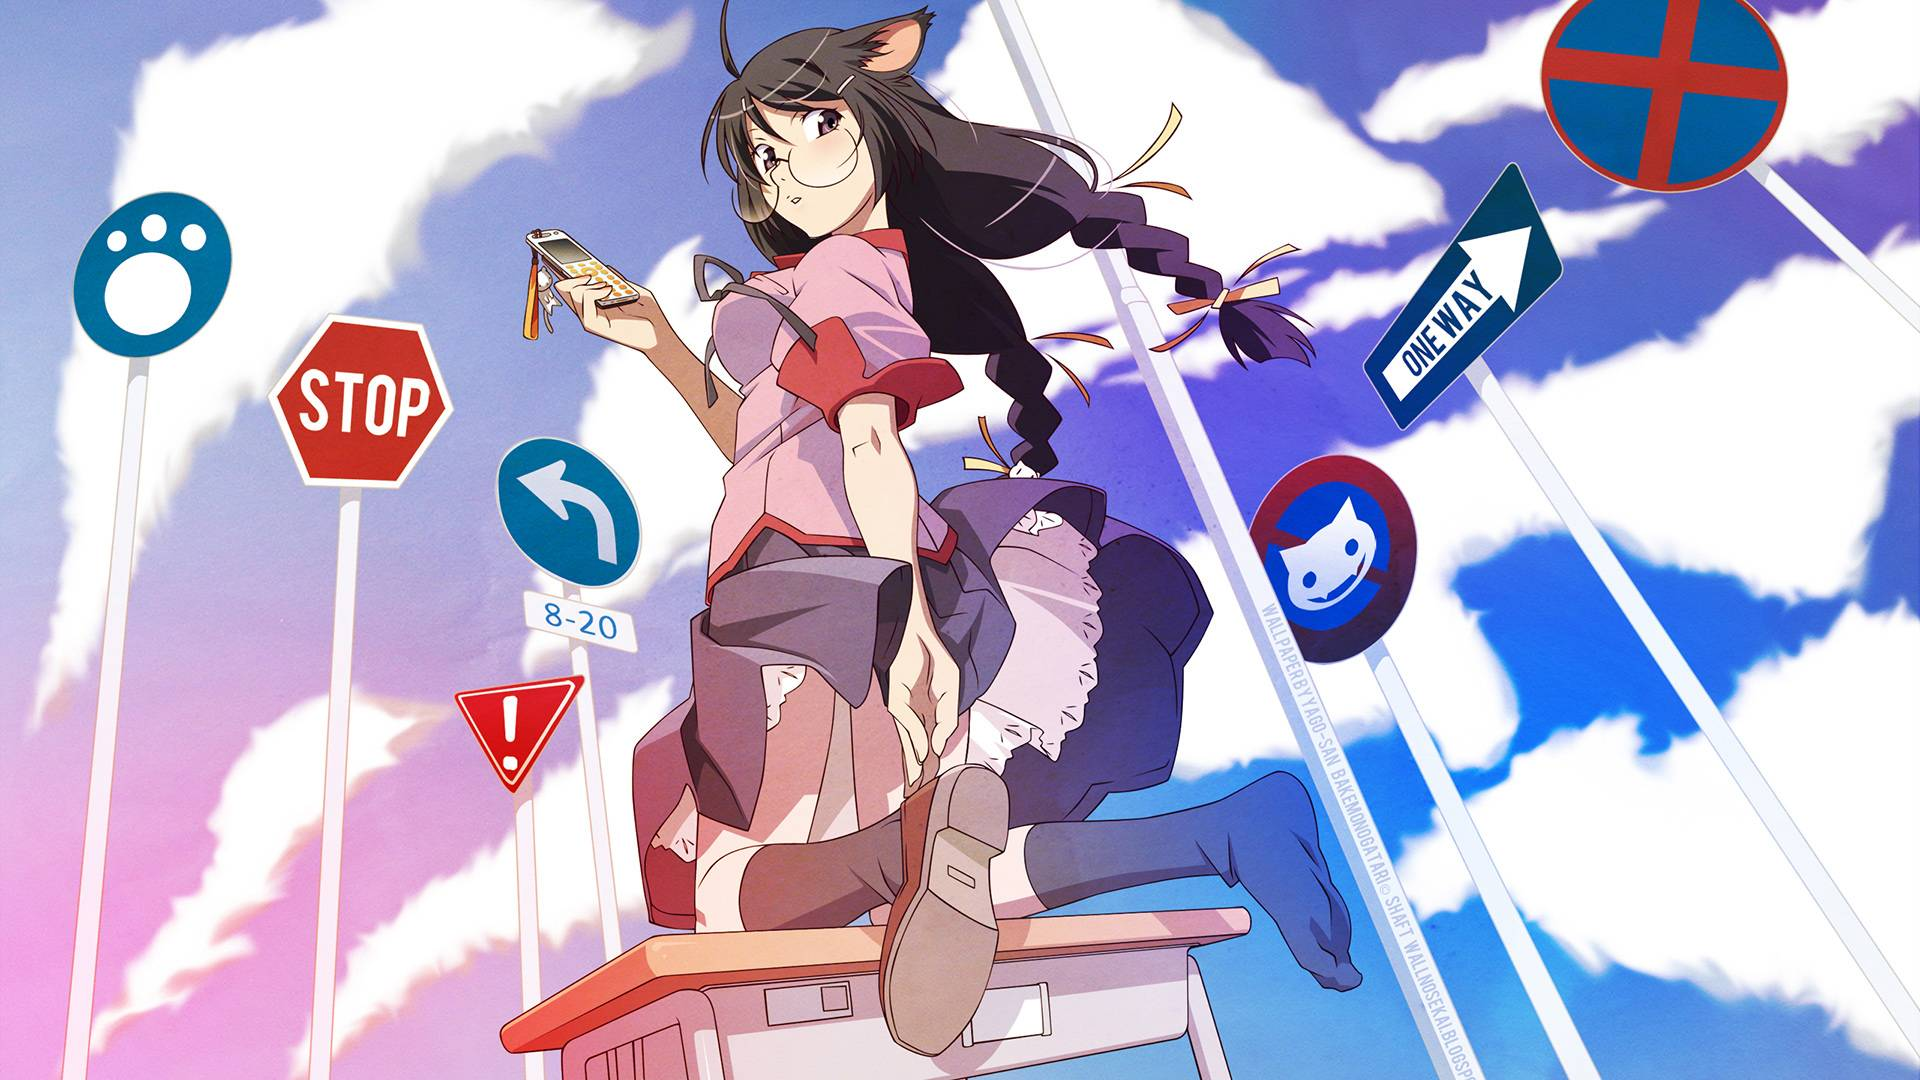
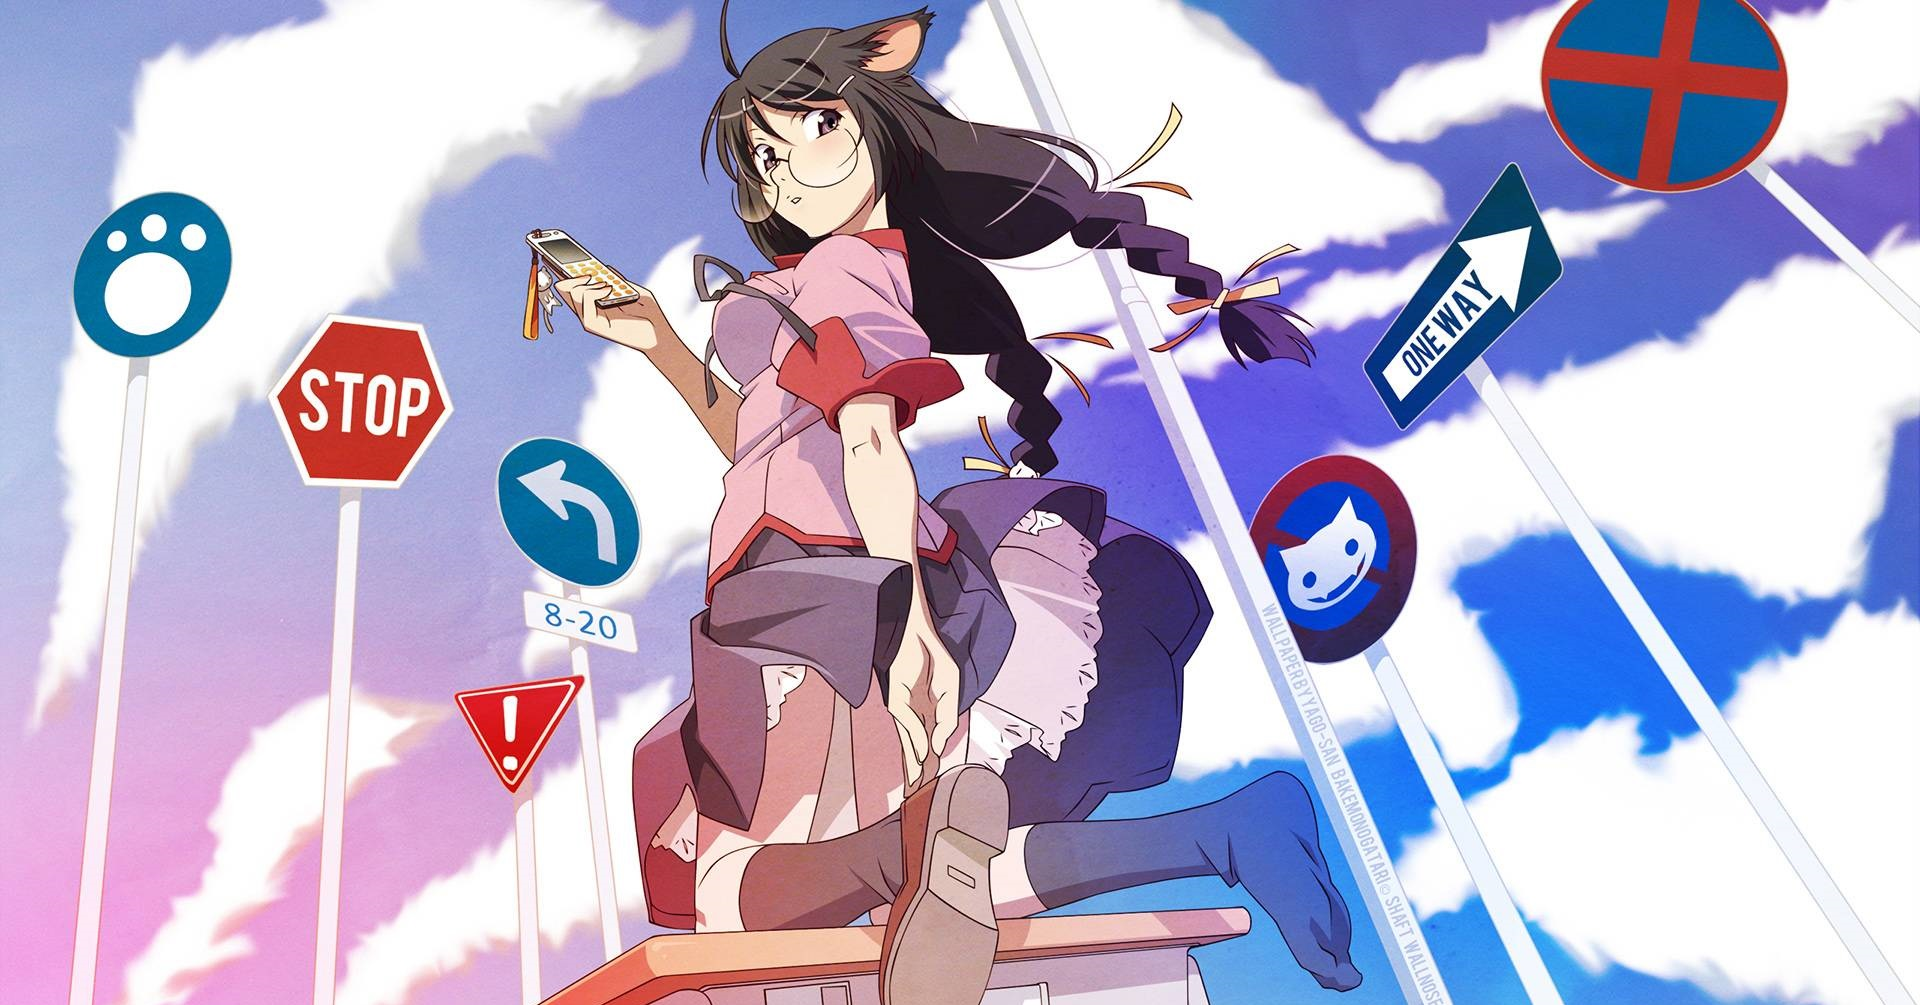
media query for carousel

diff --git a/index.html b/index.html
@@ -19,12 +19,12 @@
     <button class="navbar-toggler navbar-toggler-right" type="button" data-toggle="collapse" data-target="#navbarSupportedContent" aria-controls="navbarSupportedContent" aria-expanded="false" aria-label="Toggle navigation">
        <span class="navbar-toggler-icon"></span>
      </button>
-    <a class="navbar-brand" href="#"><img src="images/nekotaku-logo2.png" width="75"></a>
+    <a class="navbar-brand" href="index.html"><img src="images/nekotaku-logo2.png" width="75"></a>
 
     <div class="collapse navbar-collapse" id="navbarSupportedContent">
       <ul class="navbar-nav mr-auto">
         <li class="nav-item active">
-          <a class="nav-link" href="#">Home <span class="sr-only">(current)</span></a>
+          <a class="nav-link" href="index.html">Home <span class="sr-only">(current)</span></a>
         </li>
         <li class="nav-item">
           <a class="nav-link" href="#">Reviews</a>
@@ -37,45 +37,52 @@
   </nav>
 
   <!--- Beginning of Slider --->
-  <div id="myCarousel" class="carousel slide" data-ride="carousel">
-    <ol class="carousel-indicators">
-      <li data-target="#myCarousel" data-slide-to="0" class="active"></li>
-      <li data-target="#myCarousel" data-slide-to="1"></li>
-      <li data-target="#myCarousel" data-slide-to="2"></li>
-    </ol>
-    <div class="carousel-inner">
-      <div class="carousel-item active">
-        <img class="d-block w-100" src="images/bakemonotegari2.jpg" alt="First slide">
-        <div class="carousel-caption d-none d-md-block">
-        <h3>Bakemonotegari</h3>
-        <p>...</p>
-      </div>
-      </div>
-      <div class="carousel-item">
-        <img class="d-block w-100" src="images/asilentvoice.png" alt="Second slide">
-        <div class="carousel-caption d-none d-md-block">
-        <h3>A Silent Voice</h3>
-        <p>...</p>
-      </div>
-      </div>
-      <div class="carousel-item">
-        <img class="d-block w-100" src="images/kakeguirui.png" alt="Third slide">
-          <div class="carousel-caption d-none d-md-block">
-          <h3>Kakeguirui</h3>
-          <p>...</p>
-        </div>
-      </div>
-    </div>
-    <a class="carousel-control-prev" href="#carouselExampleIndicators" role="button" data-slide="prev">
- <span class="carousel-control-prev-icon" aria-hidden="true"></span>
- <span class="sr-only">Previous</span>
-</a>
-    <a class="carousel-control-next" href="#carouselExampleIndicators" role="button" data-slide="next">
- <span class="carousel-control-next-icon" aria-hidden="true"></span>
- <span class="sr-only">Next</span>
-</a>
+  <div class="container">
+        <div id="myCarousel" class="carousel slide" data-ride="carousel">
+          <ol class="carousel-indicators">
+            <li data-target="#myCarousel" data-slide-to="0" class="active"></li>
+            <li data-target="#myCarousel" data-slide-to="1"></li>
+            <li data-target="#myCarousel" data-slide-to="2"></li>
+          </ol>
+
+          <div class="carousel-inner" role="listbox">
+            <div class="carousel-item active">
+              <img src="images/bakemonotegari2.jpg" class="d-block img-fluid" alt="First Slide" />
+              <div class="carousel-caption">
+                <h1>Bakemonotegari</h1>
+                <p>Oh yh it is indeed!!!!!! :D</p>
+              </div>
+            </div>
+
+            <div class="carousel-item">
+              <img src="images/asilentvoice.png" class="d-block w-100" alt="Second Slide" />
+
+              <div class="carousel-caption">
+                <h1>A Silent Voice</h1>
+                <p>Oh yh it is indeed!!!!!! :D</p>
+              </div>
+            </div>
+
+            <div class="carousel-item">
+              <img src="images/kakeguirui.png" class="d-block w-100" alt="Third Slide" />
+              <div class="carousel-caption">
+                <h1>Kakeguirui</h1>
+                <p>Oh yh it is indeed!!!!!! :D</p>
+              </div>
+            </div>
+            </div>
+          </div>
+
+          <a class="carousel-control-prev" href="#myCarousel" role="button" data-slide="prev">
+      <span class="carousel-control-prev-icon" aria-hidden="true"></span>
+      <span class="sr-only">Previous</span>
+    </a>
+    <a class="carousel-control-next" href="#myCarousel" role="button" data-slide="next">
+      <span class="carousel-control-next-icon" aria-hidden="true"></span>
+      <span class="sr-only">Next</span>
+    </a>
+          </a>
   </div>
-
+</div>
 </body>
-
 </html>

diff --git a/css/main.css b/css/main.css
@@ -2,6 +2,10 @@ body{
    font-family: 'Mada', sans-serif;
 }
 
+.container{
+  width: 100%;
+}
+
 .navbar {
     margin-bottom: 0;
     border-radius: 0;
@@ -28,6 +32,7 @@ body{
 
 .carousel-inner > .item > img, .carousel-inner > .item > a > img {
     width: 100%;
+    height: auto;
 }
 
 .carousel-caption{
@@ -43,3 +48,23 @@ body{
     margin-bottom: 20px;
     border-radius: 10px;
   }
+
+  @media (orientation: portrait) {
+    .carousel-item.active,
+    .carousel-item-next,
+    .carousel-item-prev {
+        display: block;
+        width:100%;
+        height:auto;
+    }
+}
+
+@media (orientation: landscape) {
+    .carousel-item.active,
+    .carousel-item-next,
+    .carousel-item-prev {
+        display: block;
+        width:100%;
+        height:96vh;
+    }
+}
